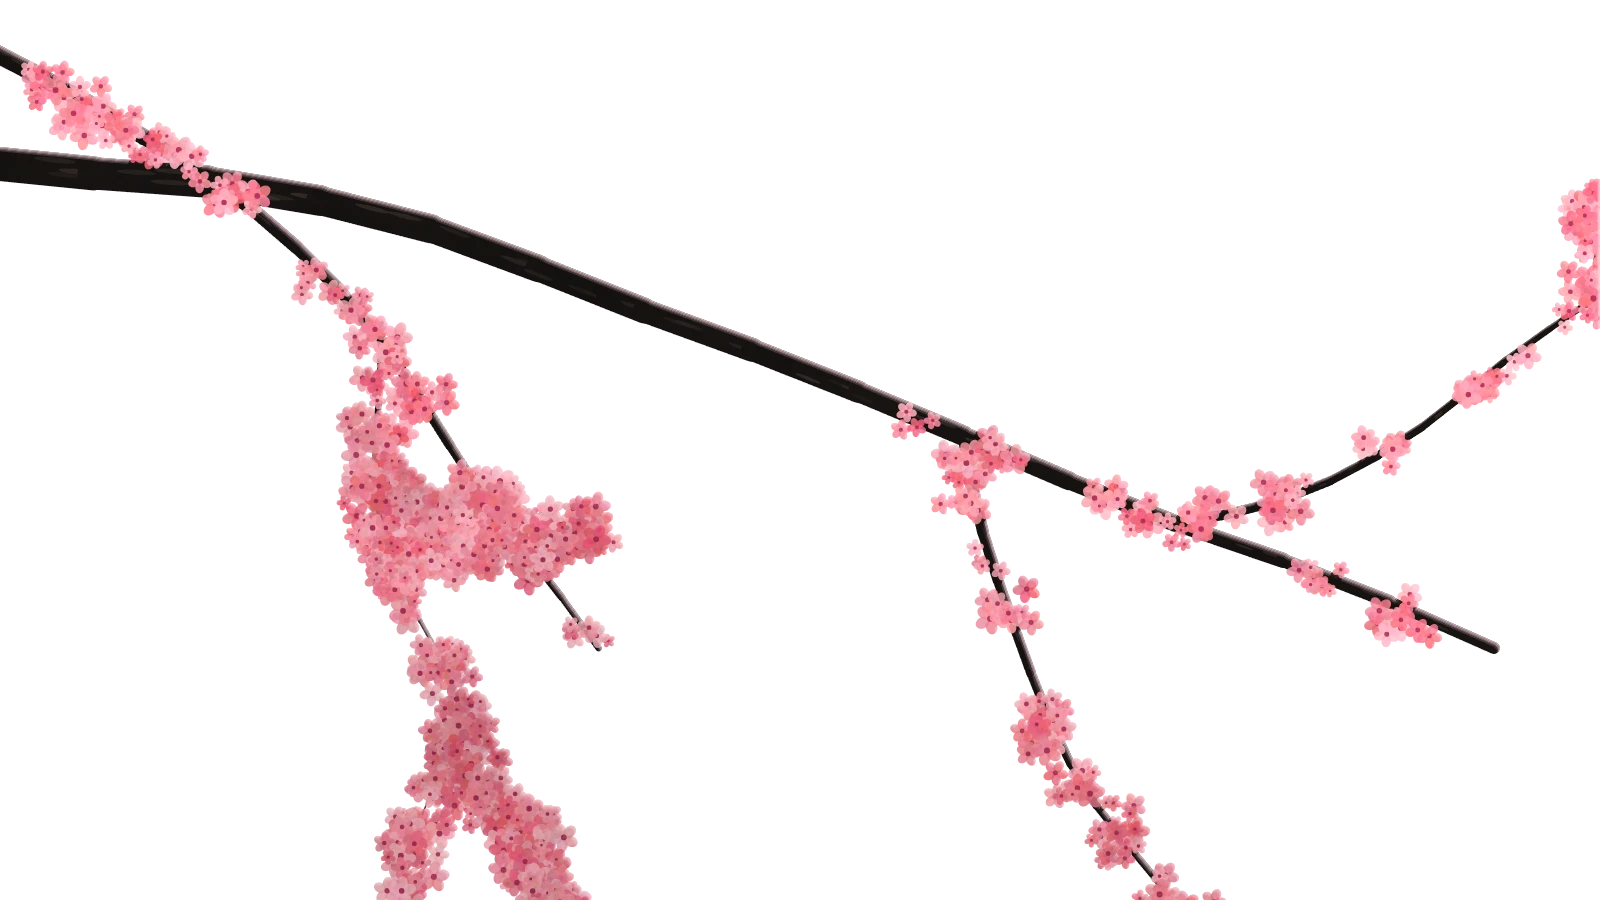
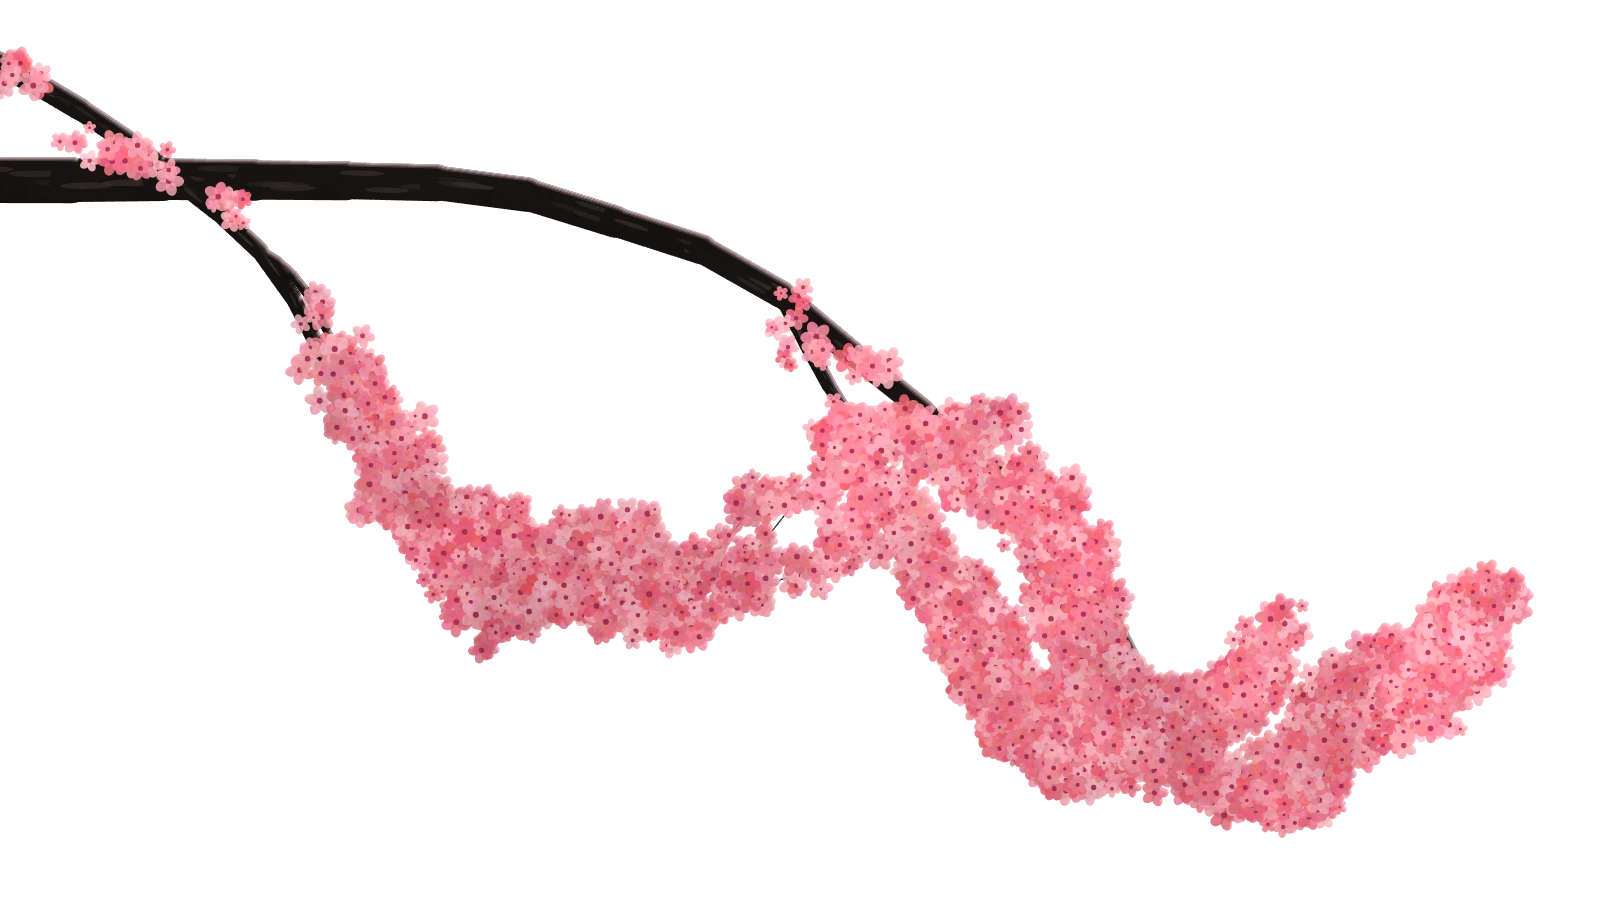
feat(experience): rich kit composition with flickering lantern light
- kit.json now composes 20 layers: distant ridge and hazy cedar line, temple
  walls, cedars flanking the torii, mound, stone lanterns on the near mound in
  front of the title, midground rocks/bush, framing bush and rock, tall grass
  and a blossom branch reaching in from the top right (hidden on portrait)
- Lantern lights feed shared point-light uniforms every frame with candle
  flicker (gentler under reduced motion); additive glow sprites join the moon
  in the selective bloom
- kit.json "hidden" placement flag; branch painter keeps limbs inside the canvas
- npm run fps: headless scroll frame-rate check (1440 83fps, 390 86fps)

Changed region(s): [[0.0, 0.0311, 0.9688, 1.0], [0.9688, 0.1867, 1.0, 0.3733]]

diff --git a/frontend/src/experience/scenes/KitLayers.tsx b/frontend/src/experience/scenes/KitLayers.tsx
@@ -1,9 +1,12 @@
 import { useTexture } from '@react-three/drei'
-import { useLoader } from '@react-three/fiber'
-import { useLayoutEffect, useMemo } from 'react'
-import { FileLoader, SRGBColorSpace, type Texture } from 'three'
+import { useFrame, useLoader } from '@react-three/fiber'
+import { createRef, useEffect, useLayoutEffect, useMemo, type RefObject } from 'react'
+import { AdditiveBlending, Color, FileLoader, MeshBasicMaterial, SRGBColorSpace, type Mesh, type Texture } from 'three'
 import type { Rect } from '../camera/paths'
-import { DepthLayer, placeInRect } from '../layers/DepthLayer'
+import { DepthLayer, placeInRect, type LayerBox } from '../layers/DepthLayer'
+import { MAX_LIGHTS, sharedLights } from '../layers/layerMaterial'
+import { getPlaceholder } from '../layers/placeholderTextures'
+import { chapterState } from '../store'
 import { kitUrl, type Kit, type KitLayer } from './kit'
 
 export interface KitLook {
@@ -40,6 +43,14 @@ export function useKitTextures(template: string, name: string, kit: Kit): Record
   return textures
 }
 
+/** One ref per lit layer, for the glow sprites (passed to SelectiveBloom). */
+export function useKitGlowRefs(kit: Kit): Record<string, RefObject<Mesh | null>> {
+  return useMemo(
+    () => Object.fromEntries(kit.layers.filter((l) => l.light).map((l) => [l.id, createRef<Mesh>()])),
+    [kit],
+  )
+}
+
 export function layerPlacement(layer: KitLayer, portrait: boolean) {
   return portrait && layer.portrait ? { ...layer, ...layer.portrait } : layer
 }
@@ -50,41 +61,149 @@ interface KitLayersProps {
   rectAt: (z: number) => Rect
   portrait: boolean
   look: KitLook
-  /** Only layers with z in [minZ, maxZ) (lets the title sit between groups). */
-  minZ?: number
-  maxZ?: number
+  glowRefs: Record<string, RefObject<Mesh | null>>
 }
 
-/** Renders a kit's layers at their authored depths, placed in the opening frame. */
-export function KitLayers({ kit, textures, rectAt, portrait, look, minZ = -Infinity, maxZ = Infinity }: KitLayersProps) {
+interface PlacedLight {
+  id: string
+  x: number
+  y: number
+  z: number
+  radius: number
+  color: Color
+  intensity: number
+  flicker: number
+  glowSize: number
+  seed: number
+}
+
+/** Renders a kit's layers at their authored depths, plus lantern lights and glows. */
+export function KitLayers({ kit, textures, rectAt, portrait, look, glowRefs }: KitLayersProps) {
+  const placed = kit.layers.map((layer) => {
+    const texture = textures[layer.texture]
+    const placement = layerPlacement(layer, portrait)
+    if (!texture || placement.hidden) return null
+    const img = texture.image as { width: number; height: number }
+    const box = placeInRect(rectAt(layer.z), placement, img.width / img.height)
+    return { layer, texture, box }
+  })
+
+  const lights: PlacedLight[] = placed.flatMap((p, i) => {
+    if (!p?.layer.light) return []
+    return [placeLight(p.layer, p.box, i)]
+  })
+
   return (
     <>
-      {kit.layers
-        .filter((l) => l.z >= minZ && l.z < maxZ)
-        .map((layer) => {
-          const texture = textures[layer.texture]
-          if (!texture) return null
-          const img = texture.image as { width: number; height: number }
-          const box = placeInRect(rectAt(layer.z), layerPlacement(layer, portrait), img.width / img.height)
-          const tintAmount = layer.tint ?? 0
-          return (
-            <DepthLayer
-              key={layer.id}
-              texture={texture}
-              z={layer.z}
-              box={box}
-              flip={layer.flip}
-              tint={shadeHex(tintAmount > 0 ? mixHex('#ffffff', look.tint, tintAmount) : '#ffffff', layer.shade ?? 1)}
-              fogColor={look.fogColor}
-              fogMix={Math.min(1, (layer.fog ?? 0) + look.fogBoost * (layer.fog ?? 0))}
-              sway={layer.sway ?? 0}
-              wind={look.wind}
-              rim={(layer.rim ?? 0) * look.rim}
-              rimColor={look.rimColor}
-              lightGain={look.lightGain}
-            />
-          )
-        })}
+      {placed.map((p) => {
+        if (!p) return null
+        const { layer, texture, box } = p
+        const tintAmount = layer.tint ?? 0
+        return (
+          <DepthLayer
+            key={layer.id}
+            texture={texture}
+            z={layer.z}
+            box={box}
+            flip={layer.flip}
+            tint={shadeHex(tintAmount > 0 ? mixHex('#ffffff', look.tint, tintAmount) : '#ffffff', layer.shade ?? 1)}
+            fogColor={look.fogColor}
+            fogMix={Math.min(1, (layer.fog ?? 0) + look.fogBoost * (layer.fog ?? 0))}
+            sway={layer.sway ?? 0}
+            wind={look.wind}
+            rim={(layer.rim ?? 0) * look.rim}
+            rimColor={look.rimColor}
+            lightGain={look.lightGain}
+          />
+        )
+      })}
+      <LanternLights lights={lights} gain={look.lightGain} glowRefs={glowRefs} />
+    </>
+  )
+}
+
+function placeLight(layer: KitLayer, box: LayerBox, seed: number): PlacedLight {
+  const l = layer.light!
+  const dir = layer.flip ? -1 : 1
+  return {
+    id: layer.id,
+    x: box.x + (l.u - 0.5) * box.w * dir,
+    y: box.y + (l.v - 0.5) * box.h,
+    z: layer.z + 0.3,
+    radius: l.radius,
+    color: new Color(l.color),
+    intensity: l.intensity,
+    flicker: l.flicker ?? 0,
+    glowSize: (l.glow ?? 0.25) * box.h,
+    seed: seed * 17.3,
+  }
+}
+
+/**
+ * Feeds the kit's lights into the shared layer-material uniforms every frame
+ * (with candle flicker) and draws an additive glow sprite at each source.
+ */
+function LanternLights({
+  lights,
+  gain,
+  glowRefs,
+}: {
+  lights: PlacedLight[]
+  gain: number
+  glowRefs: Record<string, RefObject<Mesh | null>>
+}) {
+  const materials = useMemo(
+    () =>
+      lights.map(
+        (l) =>
+          new MeshBasicMaterial({
+            map: getPlaceholder('glow'),
+            color: l.color.clone().multiplyScalar(2.2),
+            transparent: true,
+            depthWrite: false,
+            blending: AdditiveBlending,
+            toneMapped: false,
+          }),
+      ),
+    // Recreate only when the set of lights changes, not on every re-render.
+    // eslint-disable-next-line react-hooks/exhaustive-deps
+    [lights.map((l) => l.id + l.color.getHexString()).join()],
+  )
+  useEffect(() => () => materials.forEach((m) => m.dispose()), [materials])
+
+  useEffect(
+    () => () => {
+      sharedLights.uLightCount.value = 0
+    },
+    [],
+  )
+
+  useFrame(({ clock }) => {
+    const t = clock.elapsedTime
+    const reduced = chapterState.reducedMotion
+    const n = Math.min(lights.length, MAX_LIGHTS)
+    sharedLights.uLightCount.value = n
+    for (let i = 0; i < n; i++) {
+      const l = lights[i]!
+      // Layered sines ≈ candle flicker; gentler under reduced motion.
+      const f = l.flicker * (reduced ? 0.3 : 1)
+      const wobble =
+        0.55 * Math.sin(t * 7.3 + l.seed) + 0.3 * Math.sin(t * 13.1 + l.seed * 2.1) + 0.15 * Math.sin(t * 23.7 + l.seed * 0.7)
+      const k = l.intensity * gain * (1 - f * 0.5 + f * 0.5 * wobble) * (1 + chapterState.intensity * 0.25)
+      sharedLights.uLightPos.value[i]!.set(l.x, l.y, l.z, l.radius)
+      sharedLights.uLightCol.value[i]!.set(l.color.r * k, l.color.g * k, l.color.b * k)
+      const m = materials[i]
+      if (m) m.opacity = Math.min(1, 0.55 + 0.45 * (k / Math.max(0.001, l.intensity * gain)))
+    }
+  })
+
+  return (
+    <>
+      {lights.map((l, i) => (
+        <mesh key={l.id} ref={glowRefs[l.id]} position={[l.x, l.y, l.z + 0.05]} scale={l.glowSize} material={materials[i]}>
+          <planeGeometry />
+        </mesh>
+      ))}
     </>
   )
 }

diff --git a/frontend/scripts/artkit/painters.js b/frontend/scripts/artkit/painters.js
@@ -374,19 +374,23 @@
       const steps = 14
       let px = x, py = y, a = ang
       for (let s = 0; s < steps; s++) {
-        a += (n.noise(px * 0.01, py * 0.01) - 0.5) * 0.35
+        a += (n.noise(px * 0.008, py * 0.008) - 0.5) * 0.6 + (depth === 0 ? 0.012 : 0)
+        if (py > H * 0.78) a -= 0.25 // steer up away from the bottom edge
+        if (py < H * 0.06) a += 0.25
+        a = clamp(a, -0.9, 1.1)
         const nx = px + Math.cos(a) * (len / steps)
         const ny = py + Math.sin(a) * (len / steps)
         const w = width * (1 - s / steps * 0.7)
+        if (nx > W * 0.94 || ny > H * 0.95 || ny < 4) break
         segs.push([px, py, nx, ny, w])
-        if (depth < 3 && rand() < 0.2 && s > 2) limb(nx, ny, a + (rand() < 0.5 ? -1 : 1) * (0.5 + rand() * 0.6), len * (0.35 + rand() * 0.25), w * 0.6, depth + 1)
+        if (depth < 3 && rand() < 0.3 && s > 1) limb(nx, ny, clamp(a + (rand() < 0.5 ? -1 : 1) * (0.4 + rand() * 0.5), -0.9, 1.1), len * (0.3 + rand() * 0.22), w * 0.6, depth + 1)
         px = nx
         py = ny
       }
       return [px, py]
     }
-    limb(-20, H * 0.18, 0.18, W * 1.0, 34, 0)
-    limb(-20, H * 0.05, 0.42, W * 0.55, 18, 1)
+    limb(-20, H * 0.2, 0.08, W * 0.8, 46, 0)
+    limb(-20, H * 0.06, 0.36, W * 0.5, 24, 1)
     // bark
     ctx.lineCap = 'round'
     for (const [x0, y0, x1, y1, w] of segs) {
@@ -404,8 +408,8 @@
     }
     // blossom clusters along thinner limbs
     for (const [x0, y0, x1, y1, w] of segs) {
-      if (w > 24 || rand() > 0.8) continue
-      const clusters = 1 + Math.floor(rand() * 3)
+      if (w > 26 || rand() > 0.7) continue
+      const clusters = 1 + Math.floor(rand() * 2)
       for (let q = 0; q < clusters; q++) {
         const t = rand()
         const cx = lerp(x0, x1, t) + (rand() - 0.5) * 20

diff --git a/frontend/src/experience/scenes/Threshold.tsx b/frontend/src/experience/scenes/Threshold.tsx
@@ -12,7 +12,7 @@ import { PARTICLE_PRESETS } from '../layers/particlePresets'
 import { SkyLayer } from '../layers/SkyLayer'
 import { TitleLayer } from '../layers/TitleLayer'
 import { PostStack } from '../post/PostStack'
-import { KitLayers, useKit, useKitTextures } from './KitLayers'
+import { KitLayers, useKit, useKitGlowRefs, useKitTextures } from './KitLayers'
 import { THRESHOLD_CAMERA, THRESHOLD_LAYOUT as L, thresholdPalette } from './threshold.defaults'
 
 interface ThresholdProps {
@@ -35,6 +35,7 @@ export function Threshold({ chapter, reducedMotion }: ThresholdProps) {
   const palette = useMemo(() => thresholdPalette(params), [params])
   const kit = useKit(chapter.sceneTemplate, params.artKit)
   const kitTextures = useKitTextures(chapter.sceneTemplate, params.artKit, kit)
+  const glowRefs = useKitGlowRefs(kit)
   const camera = useThree((s) => s.camera) as PerspectiveCamera
   const aspect = useThree((s) => s.size.width / s.size.height)
 
@@ -158,7 +159,8 @@ export function Threshold({ chapter, reducedMotion }: ThresholdProps) {
 
   const moonDisc = useRef<Mesh>(null)
   const light = useRef<AmbientLight>(null)
-  const bloomSelection = useMemo(() => [moonDisc], [])
+  // Moon disc + lantern glows bloom; everything else stays crisp.
+  const bloomSelection = useMemo(() => [moonDisc, ...Object.values(glowRefs)], [glowRefs])
   const bloomLights = useMemo(() => [light], [])
   const reduced = reducedMotion
 
@@ -205,6 +207,7 @@ export function Threshold({ chapter, reducedMotion }: ThresholdProps) {
         textures={kitTextures}
         rectAt={rectAt}
         portrait={portrait}
+        glowRefs={glowRefs}
         look={{
           tint: colors.kitTint,
           fogColor: colors.fog,

diff --git a/frontend/src/experience/scenes/kit.ts b/frontend/src/experience/scenes/kit.ts
@@ -34,6 +34,8 @@ export interface KitPlacement {
   maxWidth?: number
   /** Stretch horizontally to cover the frame (ground planes). */
   stretch?: boolean
+  /** Skip this layer (e.g. a foreground branch that would crowd portrait copy). */
+  hidden?: boolean
 }
 
 export interface KitLayer extends KitPlacement {
